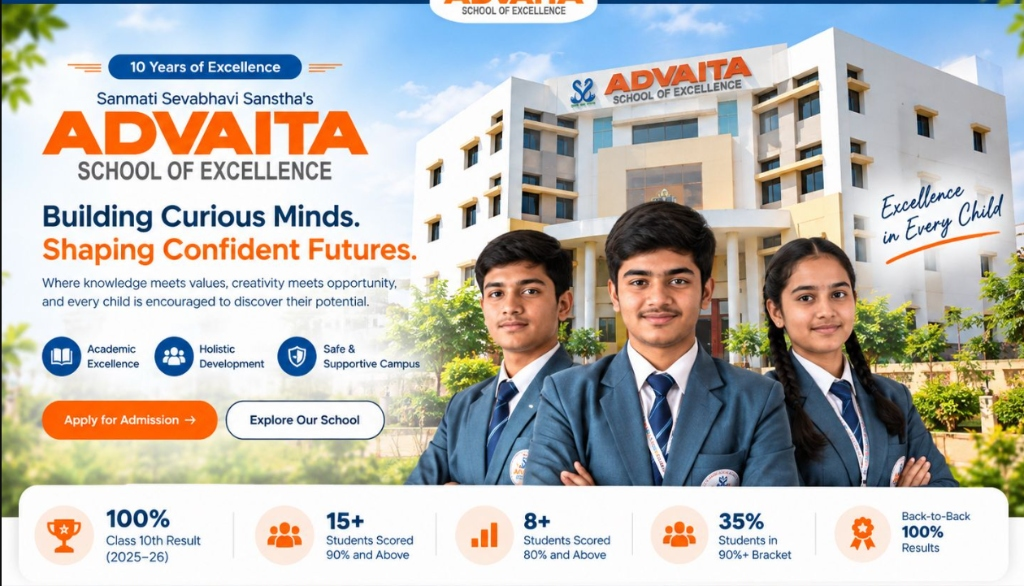
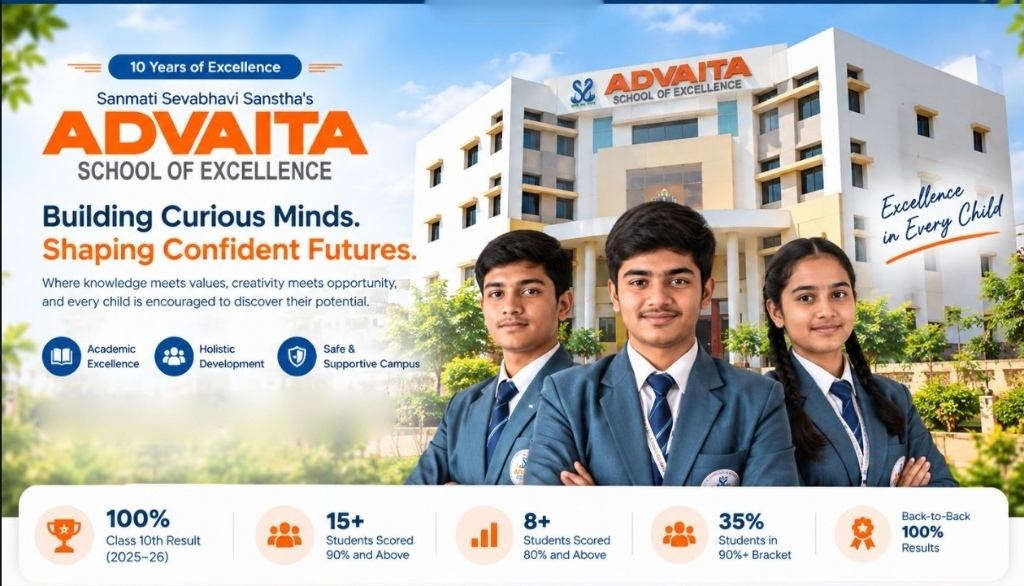
feat: update hero slider with new images, interactive action buttons, and dedicated stylesheet

Changed region(s): [[0.0312, 0.6758, 0.375, 0.7679], [0.4062, 0.0, 0.5938, 0.0614]]

diff --git a/assets/css/slider.css b/assets/css/slider.css
@@ -63,6 +63,7 @@
     justify-content: center;
     overflow: hidden;
     background-color: #ffffff;
+    container-type: inline-size;
 }
 
 .adv-slide-banner-img {
@@ -73,40 +74,85 @@
     display: block;
 }
 
-/* Transparent Clickable Overlay on Slide 1 */
-.adv-banner-clickable-overlay {
+/* Real Interactive Action Buttons on Slide 1 */
+.adv-banner-hero-actions {
     position: absolute;
-    inset: 0;
-    width: 100%;
-    height: 100%;
-    pointer-events: none;
+    left: 3.9%;
+    left: 3.9cqi;
+    top: 38.8vw;
+    top: 38.8cqi;
+    display: flex;
+    align-items: center;
+    gap: clamp(8px, 1.2cqi, 16px);
     z-index: 10;
 }
 
-.adv-transparent-hotspot {
-    pointer-events: auto;
-    position: absolute;
-    border-radius: 30px;
+.adv-hero-real-btn {
+    display: inline-flex;
+    align-items: center;
+    justify-content: center;
+    gap: clamp(6px, 0.75vw, 10px);
+    text-decoration: none;
+    border-radius: 50px;
+    font-family: inherit;
+    font-weight: 700;
+    font-size: clamp(0.72rem, 1.1vw, 0.95rem);
+    padding: clamp(6px, 0.95vw, 12px) clamp(14px, 1.8vw, 24px);
+    line-height: 1.25;
     cursor: pointer;
-    transition: background-color 0.2s ease, transform 0.2s ease;
+    white-space: nowrap;
+    letter-spacing: 0.2px;
+    transition: all 0.25s cubic-bezier(0.16, 1, 0.3, 1);
 }
 
-.adv-transparent-hotspot:hover {
-    background-color: rgba(255, 255, 255, 0.12);
+/* Primary "Apply for Admission" Button */
+.adv-hero-btn-apply {
+    background: linear-gradient(135deg, #f58220 0%, #ea580c 100%);
+    color: #ffffff;
+    border: 2px solid transparent;
+    box-shadow: 0 4px 16px rgba(234, 88, 12, 0.42), 0 2px 5px rgba(0, 0, 0, 0.08);
 }
 
-.adv-hotspot-apply-link {
-    bottom: 22%;
-    left: 3.8%;
-    width: 17%;
-    height: 8%;
+.adv-hero-btn-apply i {
+    font-size: 0.85em;
+    transition: transform 0.25s ease;
 }
 
-.adv-hotspot-explore-link {
-    bottom: 22%;
-    left: 21.5%;
-    width: 16%;
-    height: 8%;
+.adv-hero-btn-apply:hover {
+    background: linear-gradient(135deg, #ff8c2b 0%, #f58220 100%);
+    color: #ffffff;
+    transform: translateY(-2px);
+    box-shadow: 0 8px 24px rgba(234, 88, 12, 0.58), 0 3px 8px rgba(0, 0, 0, 0.12);
+}
+
+.adv-hero-btn-apply:hover i {
+    transform: translateX(4px);
+}
+
+.adv-hero-btn-apply:active {
+    transform: translateY(0);
+    box-shadow: 0 2px 8px rgba(234, 88, 12, 0.35);
+}
+
+/* Secondary "Explore Our School" Button */
+.adv-hero-btn-explore {
+    background: #ffffff;
+    color: #031c3d;
+    border: 2px solid #031c3d;
+    box-shadow: 0 4px 14px rgba(3, 28, 61, 0.1);
+}
+
+.adv-hero-btn-explore:hover {
+    background: #031c3d;
+    color: #ffffff;
+    border-color: #031c3d;
+    transform: translateY(-2px);
+    box-shadow: 0 8px 22px rgba(3, 28, 61, 0.28);
+}
+
+.adv-hero-btn-explore:active {
+    transform: translateY(0);
+    box-shadow: 0 2px 8px rgba(3, 28, 61, 0.15);
 }
 
 /* Slide 2 Rich Content Overlays */
@@ -652,14 +698,9 @@
    Responsive Rules
    -------------------------------------------------------------------------- */
 @media (max-width: 1200px) {
-    .adv-banner-overlay-actions {
-        bottom: 16%;
-        left: 4%;
-    }
-    
-    .adv-hotspot-btn {
-        padding: 9px 18px;
-        font-size: 0.84375rem;
+    .adv-hero-real-btn {
+        padding: 7px 18px;
+        font-size: 0.8125rem;
     }
 }
 
@@ -671,8 +712,13 @@
         max-height: unset;
     }
     
-    .adv-banner-overlay-actions {
-        display: none; /* Let mobile CTA bar provide clear tap targets */
+    .adv-banner-hero-actions {
+        gap: 8px;
+    }
+    
+    .adv-hero-real-btn {
+        padding: 6px 14px;
+        font-size: 0.75rem;
     }
     
     .adv-mobile-hero-cta-bar {

diff --git a/index.php b/index.php
@@ -25,44 +25,25 @@ require_once __DIR__ . '/includes/header.php';
                     <div class="adv-slide-banner-wrap">
                         <img src="assets/images/hero-slider-main.jpg" alt="Advaita School of Excellence - Building Curious Minds. Shaping Confident Futures." class="adv-slide-banner-img" loading="eager">
                         
-                        <!-- Interactive Clickable Hotspots overlaying the banner buttons -->
-                        <div class="adv-banner-clickable-overlay">
-                            <a href="admissions.php" class="adv-transparent-hotspot adv-hotspot-apply-link" title="Apply for Admission" aria-label="Apply for Admission"></a>
-                            <a href="about-us.php" class="adv-transparent-hotspot adv-hotspot-explore-link" title="Explore Our School" aria-label="Explore Our School"></a>
+                        <!-- Real Interactive Hero Action Buttons -->
+                        <div class="adv-banner-hero-actions">
+                            <a href="admissions.php" class="adv-hero-real-btn adv-hero-btn-apply" title="Apply for Admission">
+                                <span>Apply for Admission</span>
+                                <i class="fa-solid fa-arrow-right"></i>
+                            </a>
+                            <a href="about-us.php" class="adv-hero-real-btn adv-hero-btn-explore" title="Explore Our School">
+                                <span>Explore Our School</span>
+                            </a>
                         </div>
                     </div>
                 </div>
 
                 <!-- ----------------------------------------------------
-                     SLIDE 2: Campus Infrastructure & Learning
+                     SLIDE 2: CBSE Results 2025-26 (Proud Achievers)
                      ---------------------------------------------------- -->
                 <div class="adv-slide" data-slide-index="1">
                     <div class="adv-slide-banner-wrap">
-                        <div class="adv-slide-bg" style="background-image: url('assets/images/hero-campus-1.jpg');"></div>
-                        <div class="adv-slide-overlay-rich">
-                            <div class="adv-slide-content-rich">
-                                <div class="adv-hero-pill-tag">
-                                    <span class="tag-dot"></span> WORLD-CLASS INFRASTRUCTURE
-                                </div>
-                                <h2 class="adv-slide-title-rich">
-                                    Empowering Young Minds <br>
-                                    <span class="highlight">Beyond the Classroom</span>
-                                </h2>
-                                <p class="adv-slide-lead-rich">
-                                    Expansive green sports grounds, cutting-edge science labs, performing arts auditorium, and modern digital classrooms.
-                                </p>
-                                <div class="adv-slider-actions-rich">
-                                    <a href="admissions.php" class="adv-btn-hero-primary">
-                                        <span>Apply for Admission</span>
-                                        <i class="fa-solid fa-arrow-right"></i>
-                                    </a>
-                                    <a href="facilities.php" class="adv-btn-hero-secondary">
-                                        <i class="fa-solid fa-building-columns"></i>
-                                        <span>Explore Campus</span>
-                                    </a>
-                                </div>
-                            </div>
-                        </div>
+                        <img src="assets/images/hero-slider-results.jpg" alt="Advaita School of Excellence - CBSE Results 2025-26 Proud Achievers" class="adv-slide-banner-img" loading="lazy">
                     </div>
                 </div>
 

diff --git a/includes/header.php b/includes/header.php
@@ -22,7 +22,7 @@ $pageTitle = $pageTitle ?? 'Advaita School of Excellence - Sanmati Sevabhavi San
     
     <!-- Stylesheets -->
     <link rel="stylesheet" href="assets/css/header.css">
-    <link rel="stylesheet" href="assets/css/slider.css">
+    <link rel="stylesheet" href="assets/css/slider.css?v=<?php echo filemtime(__DIR__ . '/../assets/css/slider.css'); ?>">
     <link rel="stylesheet" href="assets/css/homepage.css">
     <link rel="stylesheet" href="assets/css/inner-pages.css">
     <link rel="stylesheet" href="assets/css/style.css">
